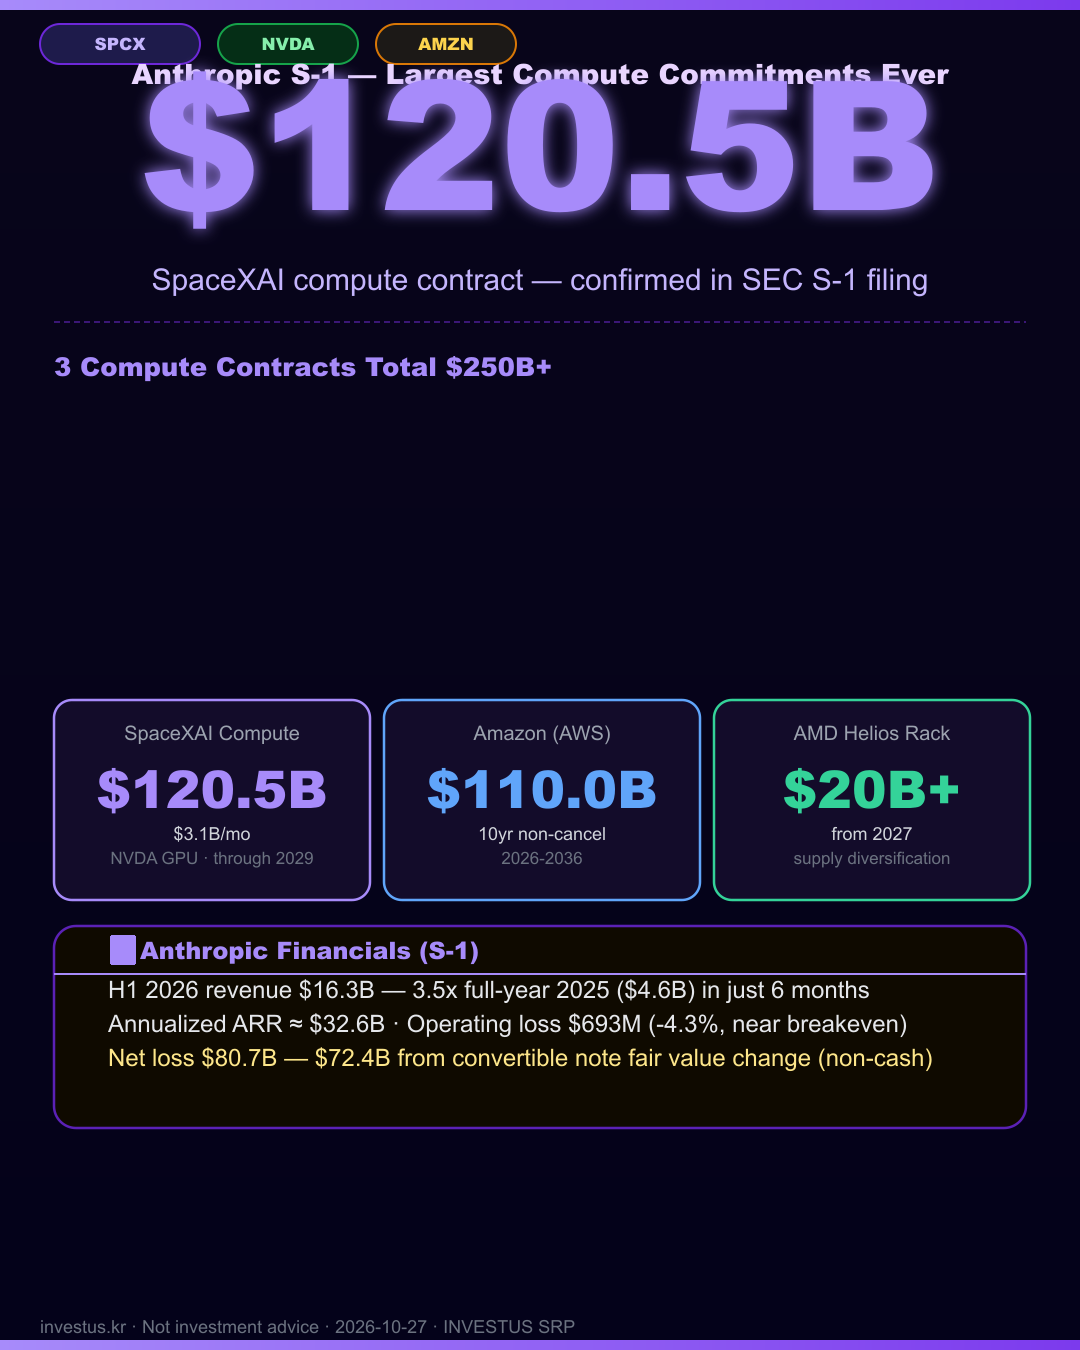
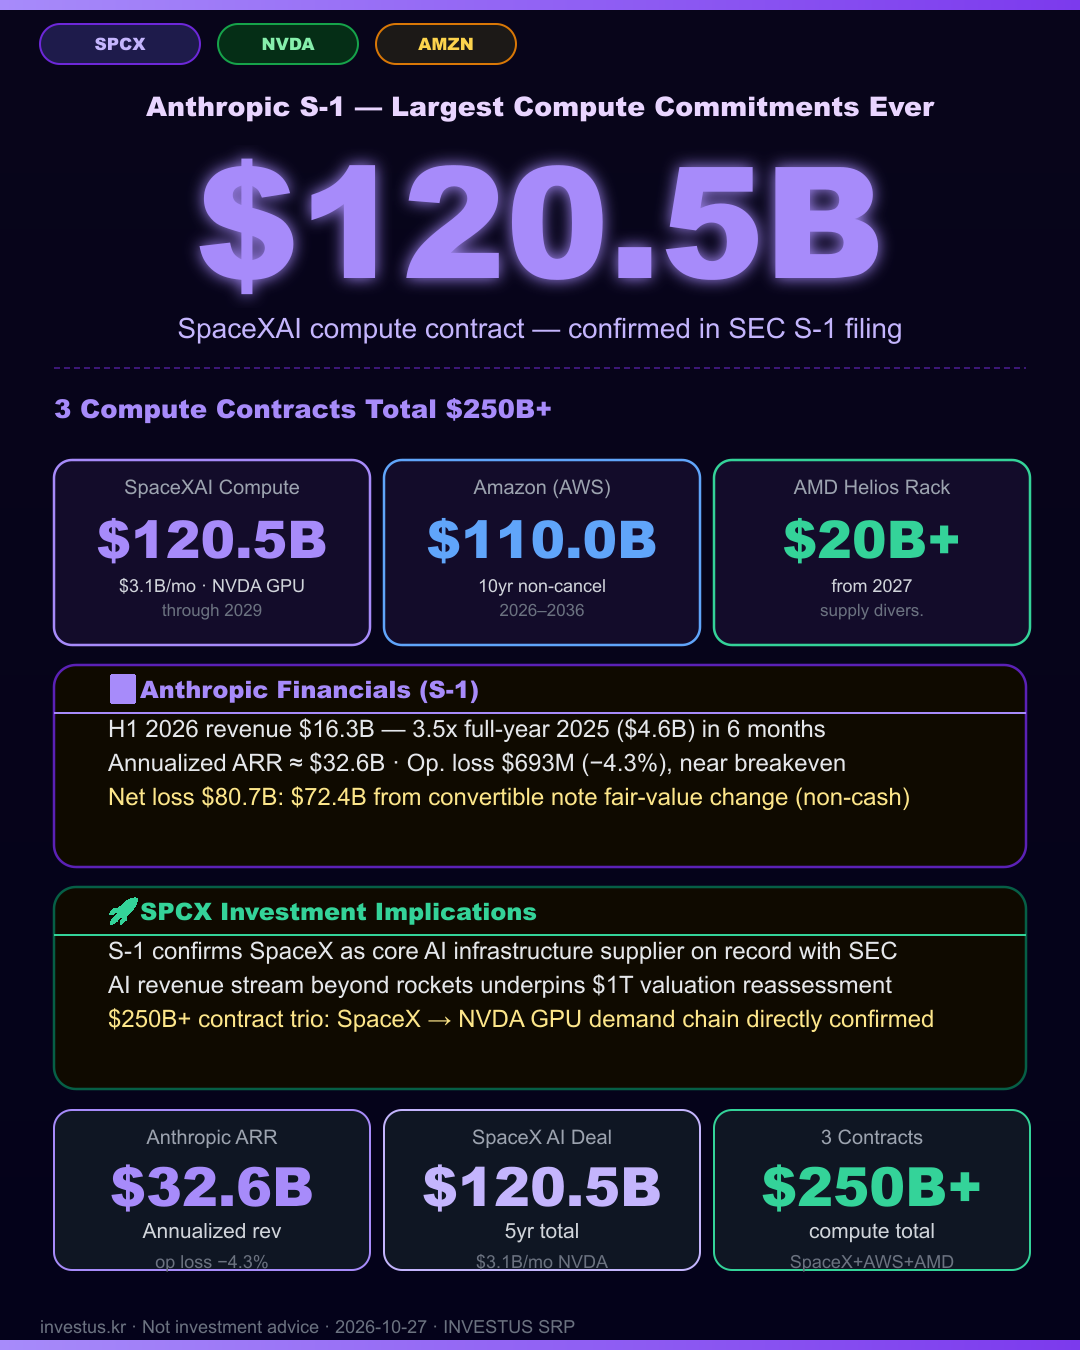
fix: AI분석 섹션명·스크롤·guru 이름·SVG 겹침 수정
- HomeAIInsight: 섹션 제목 → 내 포트폴리오 & 시장분석 + 긴 응답 스크롤
- GuruHoldings: 레오폴드 아셴브레너 GURU_INFO 추가
- anthropic-spacex SVG: 헤더 겹침 해소, 빈 공간 제거, 하단 섹션 추가

diff --git a/scripts/gen-charts-20261027-final.js b/scripts/gen-charts-20261027-final.js
@@ -66,48 +66,70 @@ async function save(slug, svg) {
 
 // ── 1. Anthropic S-1 SpaceX $120.5B ──────────────────────────────
 function makeAnthropic(ko){
-  const accent = '#A78BFA'; // purple
+  const accent = '#A78BFA';
   const accentDark = '#5B21B6';
   const green = '#34D399';
-  const blue = '#60A5FA';
 
+  // Contract boxes: start at y=460, h=185 (no gap from label above)
   const contractData = [
-    { label: ko?'SpaceX AI 컴퓨팅':'SpaceXAI Compute', val: '$120.5B', sub: ko?'월 $3.1B · NVDA GPU · 2029년까지':'$3.1B/mo · NVDA GPU · through 2029', col: '#A78BFA' },
-    { label: ko?'Amazon (AWS)':'Amazon (AWS)', val: '$110.0B', sub: ko?'10년 비해약 · 2026-2036':'10yr non-cancel · 2026-2036', col: '#60A5FA' },
-    { label: ko?'AMD Helios 랙 시스템':'AMD Helios Rack', val: '$20B+', sub: ko?'2027년부터 · 공급선 다변화':'from 2027 · supply diversification', col: '#34D399' },
+    { label: ko?'SpaceX AI 컴퓨팅':'SpaceXAI Compute', val: '$120.5B', sub1: ko?'월 $3.1B · NVDA GPU':'$3.1B/mo · NVDA GPU', sub2: ko?'2029년까지':'through 2029', col: '#A78BFA' },
+    { label: ko?'Amazon (AWS)':'Amazon (AWS)',         val: '$110.0B', sub1: ko?'10년 비해약':'10yr non-cancel',   sub2: ko?'2026–2036':'2026–2036',      col: '#60A5FA' },
+    { label: ko?'AMD Helios 랙':'AMD Helios Rack',     val: '$20B+',  sub1: ko?'2027년부터':'from 2027',        sub2: ko?'공급 다변화':'supply divers.', col: '#34D399' },
   ];
 
   const contractSvg = contractData.map((c, i) => {
-    const bx = 54 + i * 330, by = 700, bw = 316, bh = 200;
+    const bx = 54 + i * 330, by = 460, bw = 316, bh = 185;
     return `<rect x="${bx}" y="${by}" width="${bw}" height="${bh}" rx="18" fill="#130C2A" stroke="${c.col}" stroke-width="2.5"/>
-    <text x="${bx+bw/2}" y="${by+40}" text-anchor="middle" font-family="Arial,sans-serif" font-size="20" fill="#9CA3AF">${escXml(c.label)}</text>
-    <text x="${bx+bw/2}" y="${by+108}" text-anchor="middle" font-family="Arial Black,Arial,sans-serif" font-size="52" font-weight="900" fill="${c.col}">${escXml(c.val)}</text>
-    <text x="${bx+bw/2}" y="${by+140}" text-anchor="middle" font-family="Arial,sans-serif" font-size="18" fill="#D1D5DB">${escXml(c.sub.split('·')[0])}</text>
-    <text x="${bx+bw/2}" y="${by+164}" text-anchor="middle" font-family="Arial,sans-serif" font-size="17" fill="#6B7280">${escXml(c.sub.split('·').slice(1).join('·'))}</text>`;
+    <text x="${bx+bw/2}" y="${by+34}" text-anchor="middle" font-family="Arial,sans-serif" font-size="20" fill="#9CA3AF">${escXml(c.label)}</text>
+    <text x="${bx+bw/2}" y="${by+98}" text-anchor="middle" font-family="Arial Black,Arial,sans-serif" font-size="52" font-weight="900" fill="${c.col}">${escXml(c.val)}</text>
+    <text x="${bx+bw/2}" y="${by+132}" text-anchor="middle" font-family="Arial,sans-serif" font-size="18" fill="#D1D5DB">${escXml(c.sub1)}</text>
+    <text x="${bx+bw/2}" y="${by+156}" text-anchor="middle" font-family="Arial,sans-serif" font-size="17" fill="#6B7280">${escXml(c.sub2)}</text>`;
   }).join('');
 
-  const m1 = msgBox(926, ko?'📊 Anthropic 재무 현황 (S-1)':'📊 Anthropic Financials (S-1)',
+  // msgBox1 at y=665 (20px after contract boxes end at 645)
+  const m1 = msgBox(665, ko?'📊 Anthropic 재무 현황 (S-1)':'📊 Anthropic Financials (S-1)',
     ko
-      ? ['H1 2026 매출 $16.3B — 2025년 연간($4.6B)의 3.5배를 상반기 6개월에 달성',
-         '연환산 ARR ≈ $32.6B · 영업손실 $693M (매출 대비 -4.3%, 거의 손익분기)',
-         '순손실 $80.7B 중 $72.4B은 전환사채 공정가치 변동 — 비현금 항목']
-      : ['H1 2026 revenue $16.3B — 3.5x full-year 2025 ($4.6B) in just 6 months',
-         'Annualized ARR ≈ $32.6B · Operating loss $693M (-4.3%, near breakeven)',
-         'Net loss $80.7B — $72.4B from convertible note fair value change (non-cash)'],
+      ? ['H1 2026 매출 $16.3B — 2025년 연간($4.6B)의 3.5배를 6개월에 달성',
+         '연환산 ARR ≈ $32.6B · 영업손실 $693M (-4.3%), 손익분기 근접',
+         '순손실 $80.7B 중 $72.4B은 전환사채 공정가치 변동 (비현금)']
+      : ['H1 2026 revenue $16.3B — 3.5x full-year 2025 ($4.6B) in 6 months',
+         'Annualized ARR ≈ $32.6B · Op. loss $693M (−4.3%), near breakeven',
+         'Net loss $80.7B: $72.4B from convertible note fair-value change (non-cash)'],
     accent, accentDark);
+
+  // msgBox2 at y=887 (20px after m1 ends at ~867)
+  const m2 = msgBox(887, ko?'🚀 SPCX 투자 포인트':'🚀 SPCX Investment Implications',
+    ko
+      ? ['Anthropic S-1: SpaceX가 AI 인프라 핵심 공급자임을 SEC 공식 확인',
+         'AI 수익 다각화 — 로켓 이외 수익원으로 기업가치 $1T 재평가 근거',
+         '3대 계약($250B+) 수혜 = SpaceX → NVDA GPU 수요 연결 고리 직접 확인']
+      : ['S-1 confirms SpaceX as core AI infrastructure supplier on record with SEC',
+         'AI revenue stream beyond rockets underpins $1T valuation reassessment',
+         '$250B+ contract trio: SpaceX → NVDA GPU demand chain directly confirmed'],
+    green, '#065F46');
+
+  // 3 mini stat boxes at y=1110
+  const miniStats = [
+    { x:54,  top: ko?'Anthropic ARR':'Anthropic ARR', big:'$32.6B', unit:ko?'연환산 매출':'Annualized rev', sub:ko?'영업손실 −4.3%':'op loss −4.3%', col:'#A78BFA' },
+    { x:384, top: ko?'SpaceX AI 계약':'SpaceX AI Deal', big:'$120.5B', unit:ko?'5년 총액':'5yr total', sub:ko?'월 $3.1B · NVDA 전량':'$3.1B/mo NVDA', col:'#C4B5FD' },
+    { x:714, top: ko?'3대 합산':'3 Contracts', big:'$250B+', unit:ko?'컴퓨팅 계약 합산':'compute total', sub:ko?'SpaceX+AWS+AMD':'SpaceX+AWS+AMD', col:green },
+  ];
+  const statsRowSvg = miniStats.map(s => statBox(s.x, 1110, 316, 160, s.top, s.big, s.unit, s.sub, s.col)).join('');
 
   return `<svg xmlns="http://www.w3.org/2000/svg" width="1080" height="1350">
   ${base('#08051A','#04021A',accent,'#7C3AED')}
   ${badge(40,24,160,'SPCX','#1E1B4B','#6D28D9','#C4B5FD')}
   ${badge(218,24,140,'NVDA','#052E16','#16A34A','#86EFAC')}
   ${badge(376,24,140,'AMZN','#1C1917','#D97706','#FCD34D')}
-  <text x="540" y="84" text-anchor="middle" font-family="Arial Black,Arial,sans-serif" font-size="28" font-weight="900" fill="#E9D5FF">${ko?'Anthropic S-1 공개 — 역대 최대 컴퓨팅 계약':'Anthropic S-1 — Largest Compute Commitments Ever'}</text>
-  <text x="540" y="210" text-anchor="middle" font-family="Arial Black,Arial,sans-serif" font-size="180" font-weight="900" fill="${accent}" filter="url(#glow)">$120.5B</text>
-  <text x="540" y="290" text-anchor="middle" font-family="Arial,sans-serif" font-size="30" fill="#C4B5FD">${ko?'SpaceXAI 컴퓨팅 계약 — S-1 SEC 공식 문서 확인':'SpaceXAI compute contract — confirmed in SEC S-1 filing'}</text>
-  <line x1="54" y1="322" x2="1026" y2="322" stroke="#4C1D95" stroke-width="1.5" stroke-dasharray="6,4"/>
-  <text x="54" y="376" font-family="Arial Black,Arial,sans-serif" font-size="26" font-weight="900" fill="#A78BFA">${ko?'3대 컴퓨팅 계약 합산 $250B+':'3 Compute Contracts Total $250B+'}</text>
+  <text x="540" y="116" text-anchor="middle" font-family="Arial Black,Arial,sans-serif" font-size="27" font-weight="900" fill="#E9D5FF">${ko?'Anthropic S-1 공개 — 역대 최대 컴퓨팅 계약':'Anthropic S-1 — Largest Compute Commitments Ever'}</text>
+  <text x="540" y="278" text-anchor="middle" font-family="Arial Black,Arial,sans-serif" font-size="155" font-weight="900" fill="${accent}" filter="url(#glow)">$120.5B</text>
+  <text x="540" y="338" text-anchor="middle" font-family="Arial,sans-serif" font-size="28" fill="#C4B5FD">${ko?'SpaceXAI 컴퓨팅 계약 — S-1 SEC 공식 문서 확인':'SpaceXAI compute contract — confirmed in SEC S-1 filing'}</text>
+  <line x1="54" y1="368" x2="1026" y2="368" stroke="#4C1D95" stroke-width="1.5" stroke-dasharray="6,4"/>
+  <text x="54" y="418" font-family="Arial Black,Arial,sans-serif" font-size="26" font-weight="900" fill="#A78BFA">${ko?'3대 컴퓨팅 계약 합산 $250B+':'3 Compute Contracts Total $250B+'}</text>
   ${contractSvg}
   ${m1.svg}
+  ${m2.svg}
+  ${statsRowSvg}
   ${footer(ko?'2026-10-27':'2026-10-27')}
 </svg>`;
 }

diff --git a/components/HomeAIInsight.tsx b/components/HomeAIInsight.tsx
@@ -307,9 +307,9 @@ export function HomeAIInsight({ market = "us" }: { market?: MarketId }) {
           <Sparkles className="w-4 h-4 flex-shrink-0" style={{ color: "var(--mint)" }} />
           <div className="flex-1 text-left min-w-0">
             <span className="text-sm font-bold font-syne" style={{ color: "var(--text)" }}>
-              {marketOpen
-                ? (isKo ? `${cfg.labelKo} 장중 분석` : `${cfg.labelEn} Intraday Analysis`)
-                : (isKo ? `${cfg.labelKo} 등락 분석` : `${cfg.labelEn} Market Analysis`)}
+              {isKo
+                ? (marketOpen ? "내 포트폴리오 & 시장분석" : "내 포트폴리오 & 시장분석")
+                : (marketOpen ? "My Portfolio & Market Analysis" : "My Portfolio & Market Analysis")}
             </span>
             {!marketOpen && analysisDate && (
               <span className="block text-[10px] mt-0.5" style={{ color: "var(--muted)" }}>
@@ -371,9 +371,11 @@ export function HomeAIInsight({ market = "us" }: { market?: MarketId }) {
                   </button>
                 </div>
               ) : displayAnswer ? (
-                <p className="text-[12px] leading-relaxed whitespace-pre-line" style={{ color: "var(--text)" }}>
-                  {displayAnswer}
-                </p>
+                <div className="overflow-y-auto max-h-[60vh]">
+                  <p className="text-[12px] leading-relaxed whitespace-pre-line" style={{ color: "var(--text)" }}>
+                    {displayAnswer}
+                  </p>
+                </div>
               ) : (
                 <p className="text-[12px]" style={{ color: "var(--muted)" }}>
                   {marketOpen

diff --git a/components/GuruHoldings.tsx b/components/GuruHoldings.tsx
@@ -32,6 +32,10 @@ const GURU_INFO: Record<string, { ko: { title: string; body: string }; en: { tit
     ko: { title: "스탠리 드러켄밀러", body: "듀케인 패밀리 오피스 운용. 조지 소로스와 함께 영란은행을 무너뜨린 전설적 매크로 투자자. 트렌드 추종 + 집중 투자 전략." },
     en: { title: "Stanley Druckenmiller", body: "Runs Duquesne Family Office. Legendary macro investor who, alongside George Soros, broke the Bank of England. Known for trend-following combined with concentrated high-conviction bets." },
   },
+  leopold: {
+    ko: { title: "레오폴드 아셴브레너", body: "Situational Awareness Capital 창업자. 전 OpenAI 연구원. AI 안전·AGI 전환 시나리오 분석으로 주목받는 투자자. SPCX·NVDA 등 AI 인프라 집중 포트폴리오 운용." },
+    en: { title: "Leopold Aschenbrenner", body: "Founder of Situational Awareness Capital. Former OpenAI researcher. Known for AGI transition scenario analysis and AI safety research. Runs a concentrated AI-infrastructure portfolio: SPCX, NVDA, TSLA." },
+  },
 };
 
 const BADGE: Record<string, { label: string; color: string }> = {

diff --git a/public/sw.js b/public/sw.js
@@ -1,4 +1,4 @@
-const CACHE = "investus-v1793061158251";
+const CACHE = "investus-v1793061579786";
 
 self.addEventListener("install", (e) => {
   // Activate immediately — don't wait for old tabs to close
